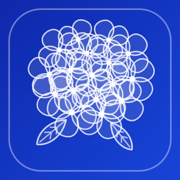
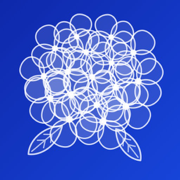
Иконка: без внутренней рамки, гортензия на весь квадрат (версия 22)

diff --git a/index.html b/index.html
@@ -12,13 +12,13 @@
   <meta name="apple-mobile-web-app-status-bar-style" content="default">
   <meta name="apple-mobile-web-app-title" content="Монетка">
   <link rel="manifest" href="manifest.webmanifest">
-  <link rel="apple-touch-icon" href="icons/icon-180.png?v=21">
-  <link rel="icon" type="image/png" href="icons/icon-192.png?v=21">
-  <link rel="stylesheet" href="styles.css?v=21">
+  <link rel="apple-touch-icon" href="icons/icon-180.png?v=22">
+  <link rel="icon" type="image/png" href="icons/icon-192.png?v=22">
+  <link rel="stylesheet" href="styles.css?v=22">
 </head>
 <body>
   <div id="app"></div>
   <input type="file" id="importFile" accept="application/json,.json" hidden>
-  <script src="app.js?v=21"></script>
+  <script src="app.js?v=22"></script>
 </body>
 </html>

diff --git a/sw.js b/sw.js
@@ -1,6 +1,6 @@
 // Офлайн-кэш приложения. При изменении файлов увеличьте версию.
-const CACHE = 'monetka-v21';
-const FILES = ['./', 'index.html', 'styles.css?v=21', 'app.js?v=21', 'manifest.webmanifest', 'icons/icon-180.png?v=21', 'icons/icon-192.png?v=21', 'icons/icon-512.png?v=21'];
+const CACHE = 'monetka-v22';
+const FILES = ['./', 'index.html', 'styles.css?v=22', 'app.js?v=22', 'manifest.webmanifest', 'icons/icon-180.png?v=22', 'icons/icon-192.png?v=22', 'icons/icon-512.png?v=22'];
 
 self.addEventListener('install', e => {
   e.waitUntil(caches.open(CACHE).then(c => c.addAll(FILES.map(f => new Request(f, { cache: 'reload' })))).then(() => self.skipWaiting()));

diff --git a/app.js b/app.js
@@ -1,6 +1,6 @@
 'use strict';
 
-const APP_VERSION = 21;
+const APP_VERSION = 22;
 
 /* ================= Data ================= */
 

diff --git a/tools/make_icon.py b/tools/make_icon.py
@@ -62,15 +62,14 @@ def leaf(x, y, ln, rot):
 
 
 def icon_svg():
-    # фон и кайма — как у яркой карточки (--hero), гортензия — как FLOWER, листья целиком
+    # фон — как у яркой карточки (--hero), гортензия — как FLOWER, на весь квадрат; без рамки (на iPhone она выглядит как картинка в картинке)
     return f'''<svg xmlns="http://www.w3.org/2000/svg" viewBox="0 0 180 180" width="180" height="180">
 <defs>
 <linearGradient id="bg" x1="0" y1="0" x2="1" y2="1"><stop offset="0" stop-color="#0e28aa"/><stop offset=".48" stop-color="#1a4fea"/><stop offset="1" stop-color="#10a4ff"/></linearGradient>
 </defs>
 <rect width="180" height="180" fill="url(#bg)"/>
-<rect x="9" y="9" width="162" height="162" rx="32" fill="none" stroke="#fff" stroke-opacity=".38" stroke-width="1.6"/>
-{leaf(66, 120, 38, 140)}{leaf(111, 123, 34, 52)}
-{cluster(90, 76, 44, 7)}
+{leaf(62, 126, 44, 140)}{leaf(116, 129, 40, 52)}
+{cluster(90, 78, 50, 7)}
 </svg>
 '''
 
